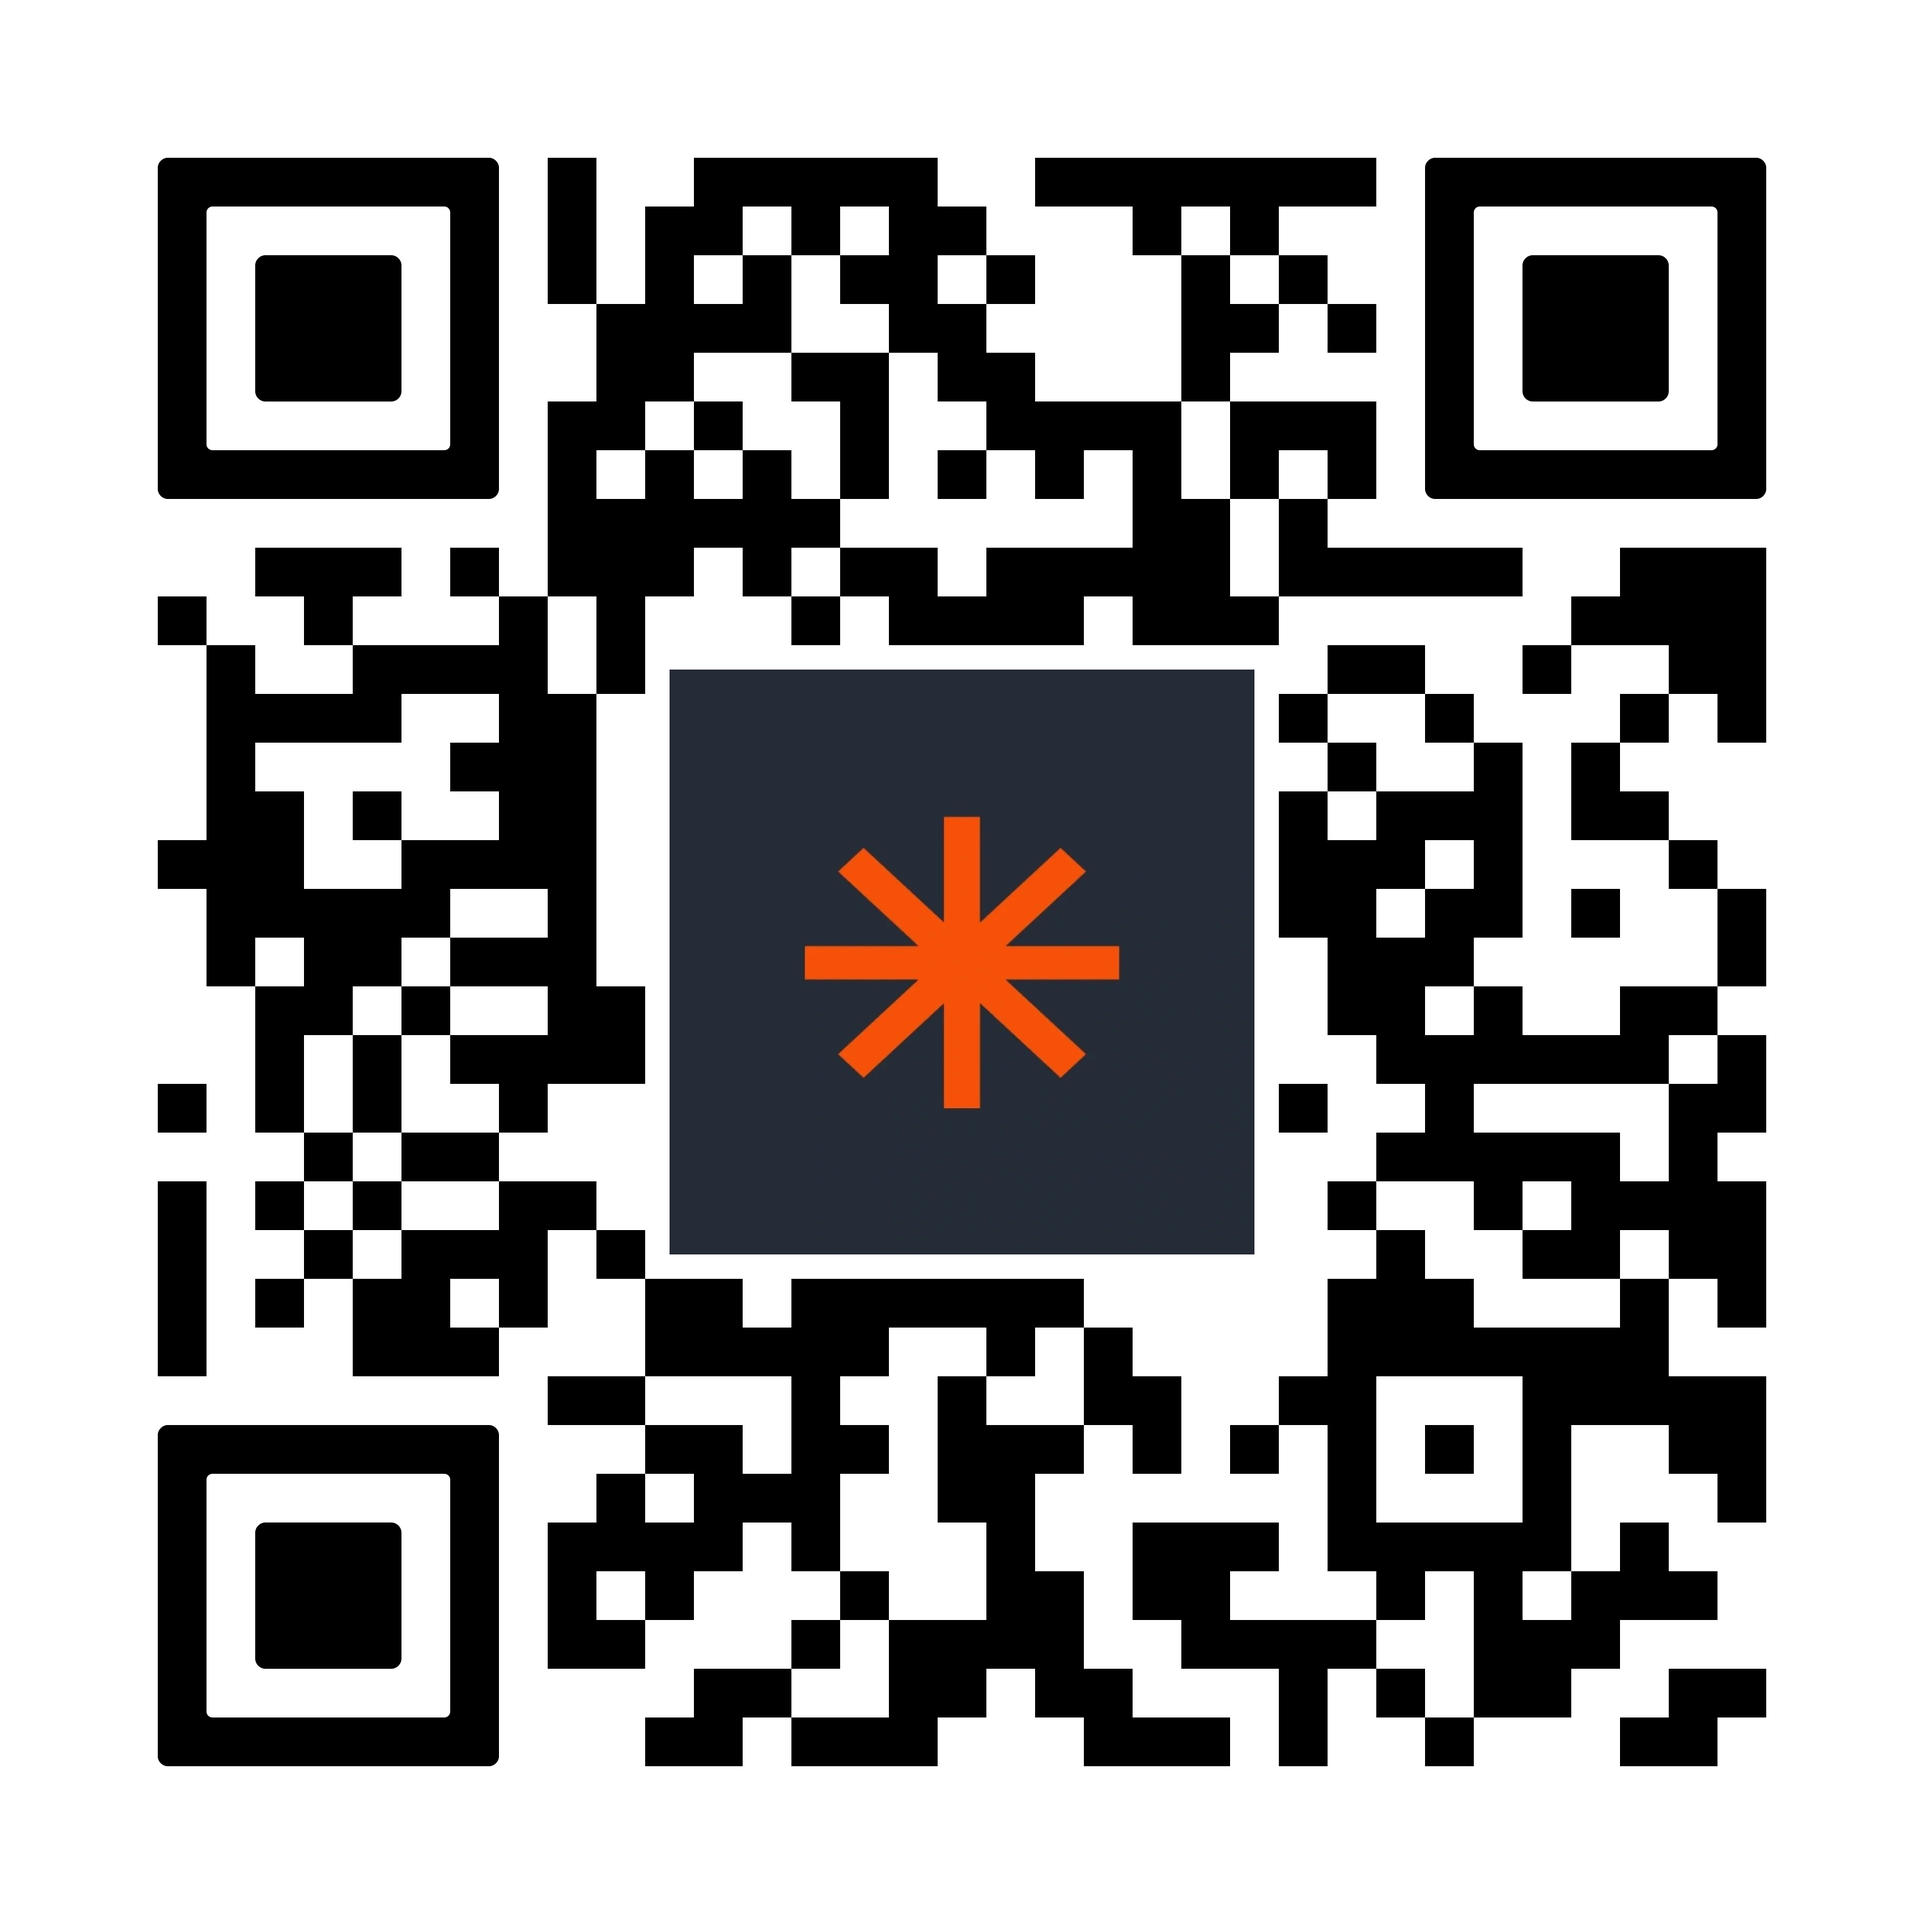
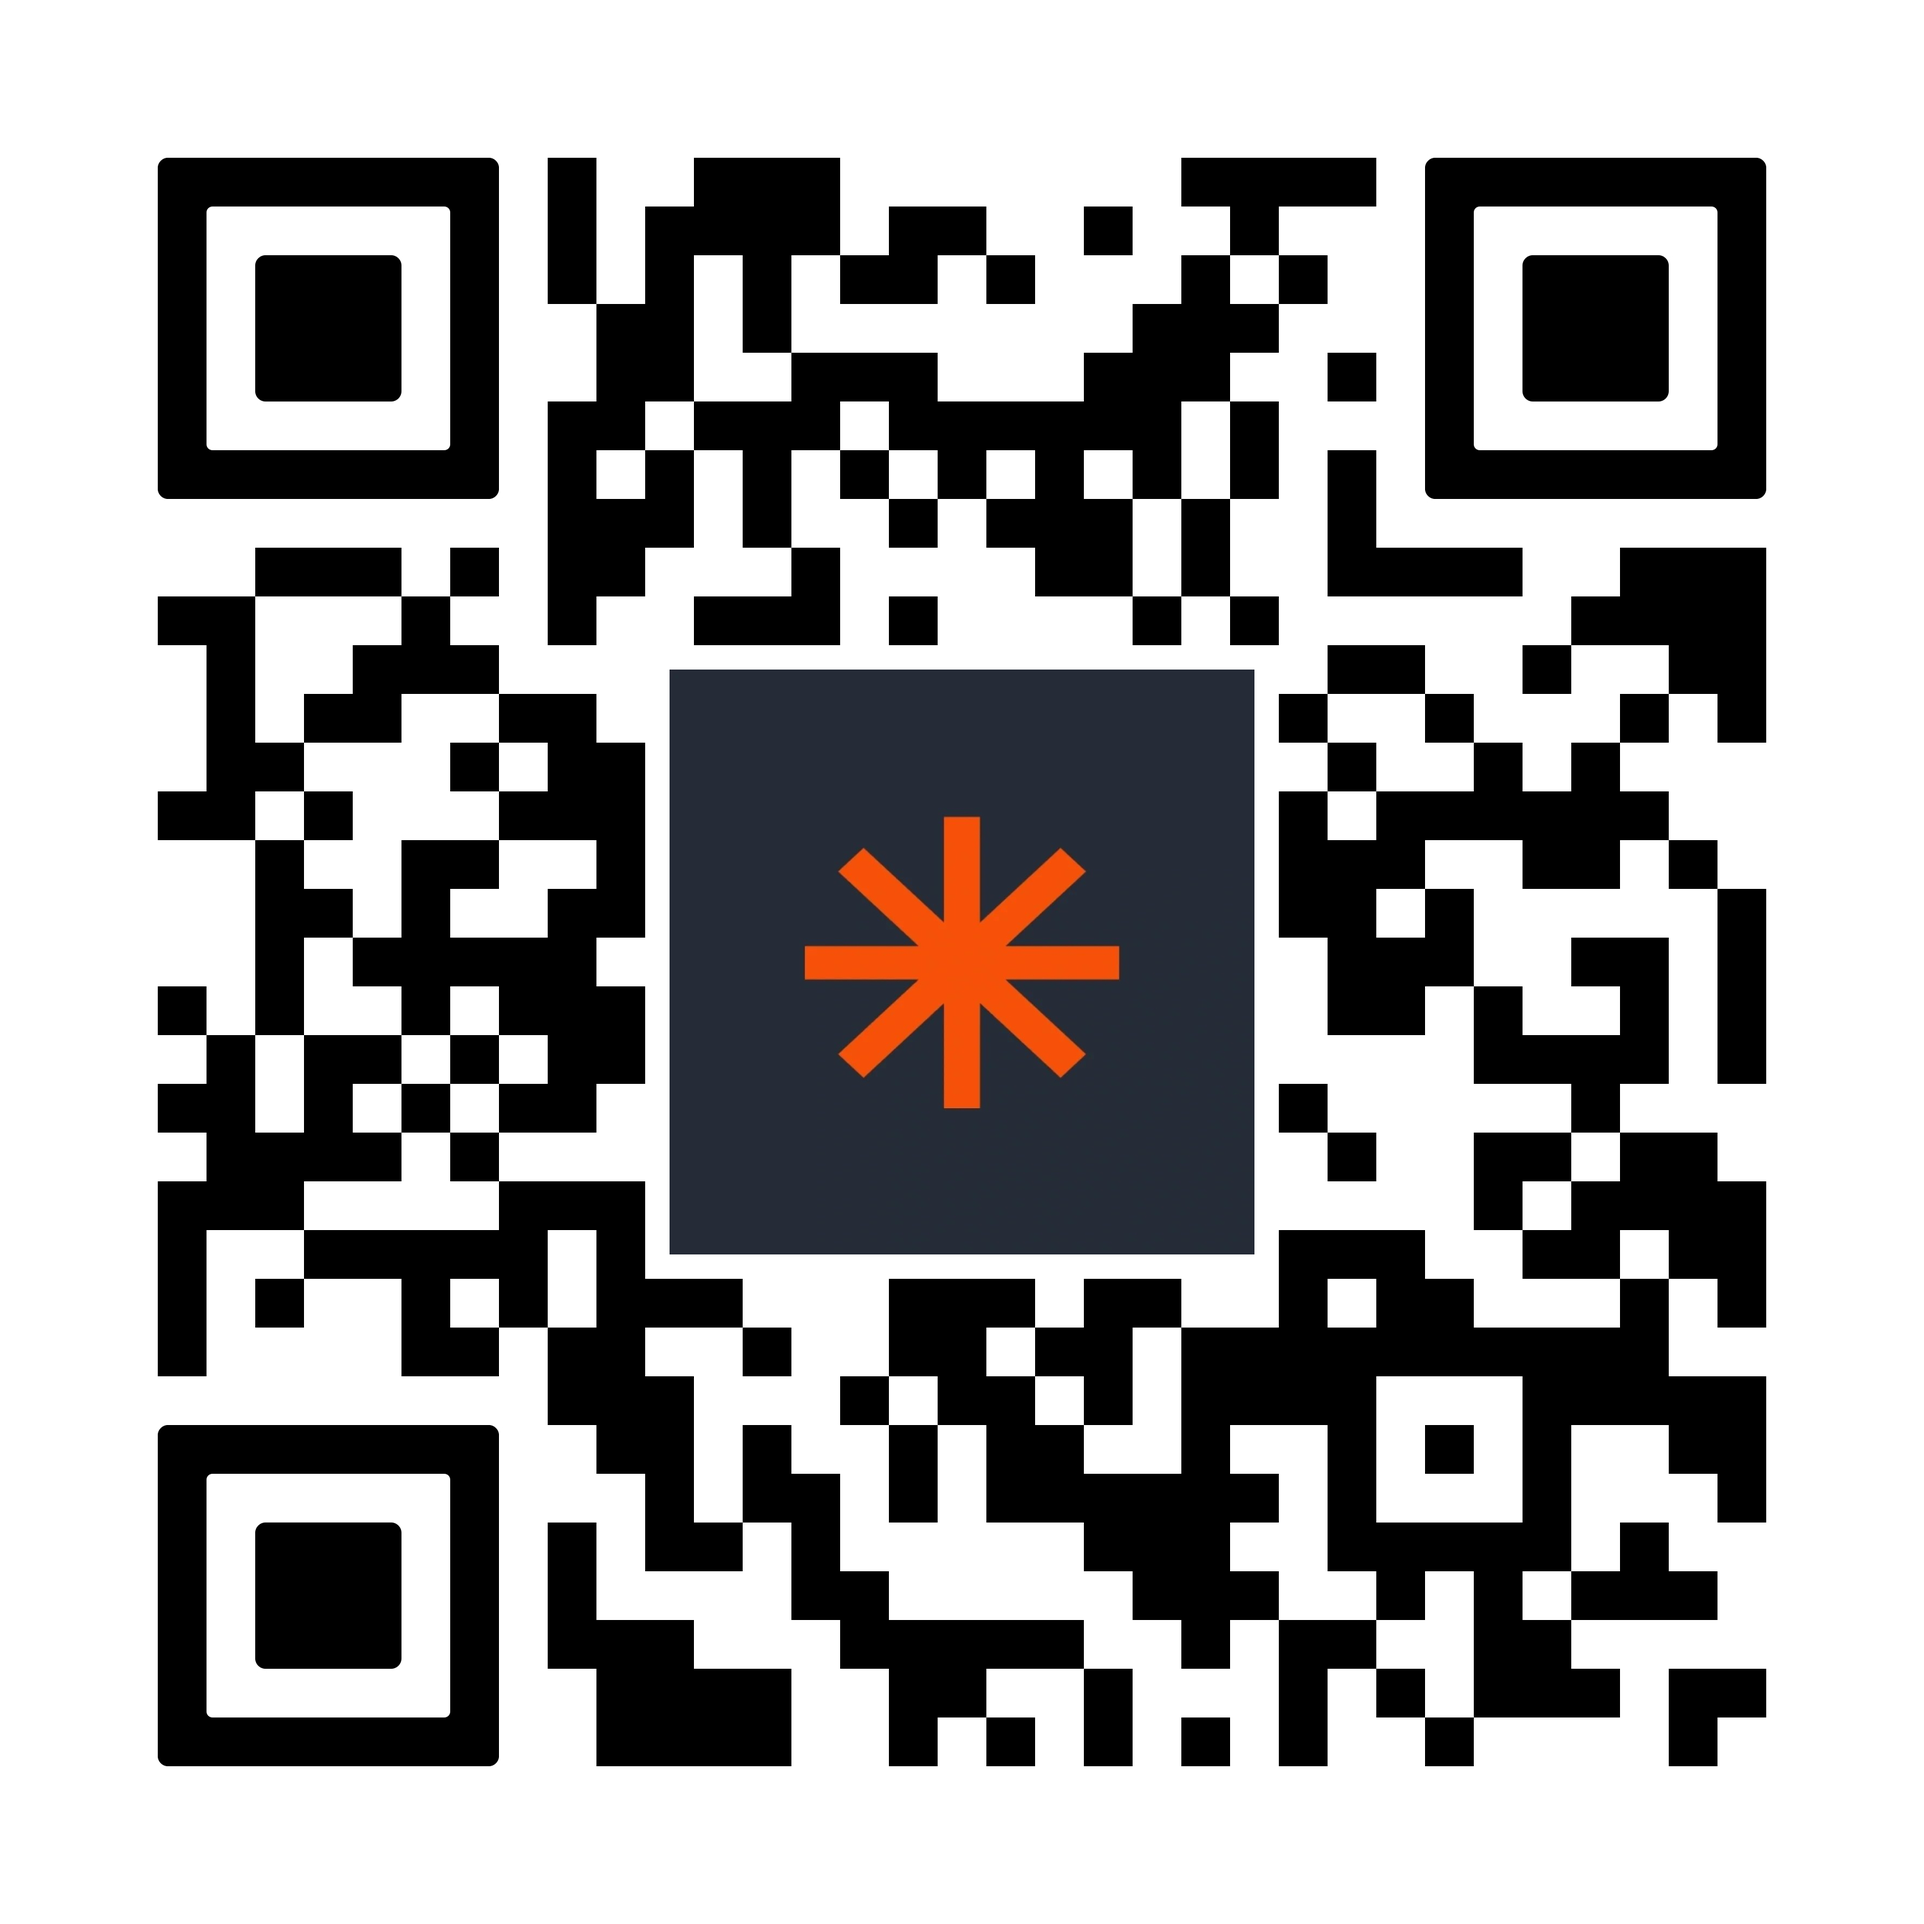
tela de presença adicionada

diff --git a/chamadaAluno/chamadaAluno.css b/chamadaAluno/chamadaAluno.css
@@ -131,3 +131,58 @@ main {
         }
     }
 }
+
+@media (max-width: 900px) {
+  main .container #content { padding: 16px; }
+  main .container #content .box { width: 60%; max-width: 560px; }
+}
+
+@media (max-width: 680px) {
+  main { margin-top: 20px; }
+  main .container { gap: 20px; }
+
+  main .container .status .msg-hours {
+    flex-direction: column;
+    align-items: flex-start;
+    gap: 10px;
+  }
+  main .container .status .msg-hours .flex-hours { gap: 8px; flex-wrap: wrap; }
+
+  main .container #content {
+    height: auto;
+    min-height: 360px;
+    padding: 16px;
+  }
+
+  main .container #content .box {
+    width: 100%;
+    max-width: 520px;
+    border-radius: 12px;
+  }
+
+  main .container #content .box .header {
+    height: auto;
+    min-height: 64px;
+  }
+  main .container #content .box .header h2 { text-align: center; }
+
+  main .container #content .box .form-control { gap: 8px; }
+  main .container #content .box .form-control select,
+  main .container #content .box .form-control input { height: 44px; }
+  main .container #content .box .form-control .flex-label { flex-wrap: wrap; }
+
+  main .container #content .box .btn { padding: 0 16px 16px 16px; }
+  main .container #content .box .btn button { height: 48px; }
+
+  main .container #finaly {
+    height: auto;
+    min-height: 360px;
+    padding: 16px;
+  }
+}
+
+@media (max-width: 420px) {
+  main .container #content { padding: 12px; }
+  main .container #content .box { max-width: 100%; }
+  main .container #content .box .form-control { padding: 0 12px; }
+}

diff --git a/chamada/chamada.css b/chamada/chamada.css
@@ -155,7 +155,7 @@ main {
             .qrcode{
                 background-color: #ffffff;
                 height: 100%;
-                width: 48%;
+                width: 50%;
                 border: solid 1px #CCCCCC;
                 border-radius: 15px;
                 box-shadow: rgba(50, 50, 93, 0.25) 0px 2px 5px -1px, rgba(0, 0, 0, 0.3) 0px 1px 3px -1px;
@@ -184,7 +184,7 @@ main {
                 }
 
                 .qr{
-                    width: 80%;
+                    width: 70%;
                     height: 60%;
                     display: flex;
                     justify-content: center;

diff --git a/chamada/index.html b/chamada/index.html
@@ -83,7 +83,7 @@
 
                     <p>Escaneie o QR Code ou acesse:</p>
 
-                    <a href="https://qrco.de/chamadaJynx" target="_blank">Acesse a chamada da Universidade JYNX</a>
+                    <a href="https://qrco.de/chamada-Jynx" target="_blank">Acesse a chamada da Universidade JYNX</a>
 
                     <button>Exportar Presenças</button>
 
